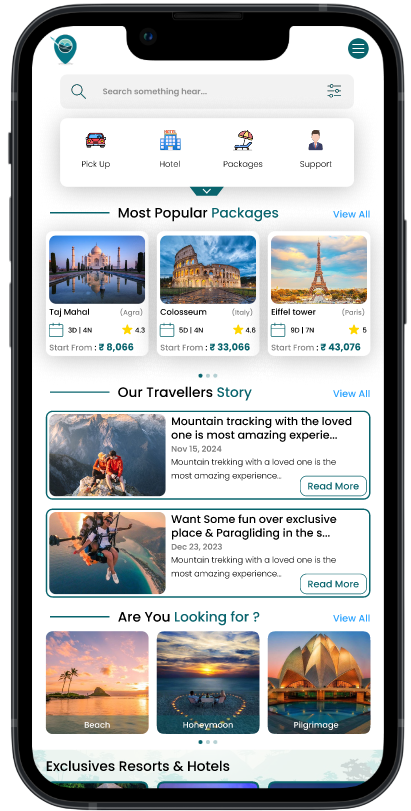
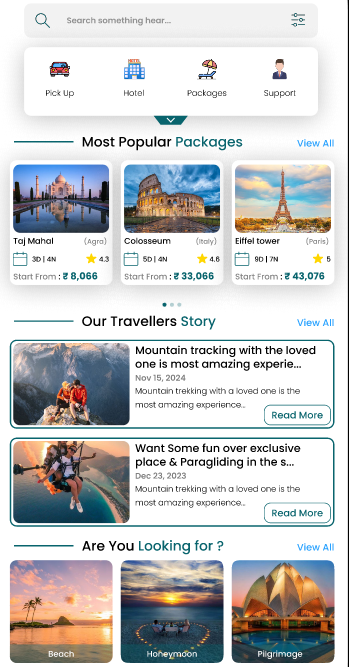
images in folder added

diff --git a/components/PortfolioPages/SYT.tsx b/components/PortfolioPages/SYT.tsx
@@ -8,7 +8,7 @@ import "@/styles/all.css"
 
 export default function SYT() {
   const [scrollY, setScrollY] = useState(0)
-  const [activeDevice, setActiveDevice] = useState("desktop")
+  const [activeDevice, setActiveDevice] = useState<"desktop" | "tablet" | "mobile">("desktop")
   const [currentSlide, setCurrentSlide] = useState(0)
 
   // Screen arrays for different devices
@@ -17,10 +17,10 @@ export default function SYT() {
   const tabletScreens = ["/img/SYTTab.png", "/img/SYTTabTours.png", "/img/SYTTabBooking.png", "/img/SYTTabProfile.png"]
 
   const mobileScreens = [
-    "/img/SYTMobile.png",
-    "/img/SYTMobileTours.png",
-    "/img/SYTMobileBooking.png",
-    "/img/SYTMobileProfile.png",
+    "/img/portfolio/newphotos/SYT/SYTApp_WebEarl_1.png",
+    "/img/portfolio/newphotos/SYT/SYTApp_WebEarl_2.png",
+    "/img/portfolio/newphotos/SYT/SYTApp_WebEarl_3.png",
+    "/img/portfolio/newphotos/SYT/SYTApp_WebEarl_4.png",
   ]
 
   const getCurrentScreens = () => {
